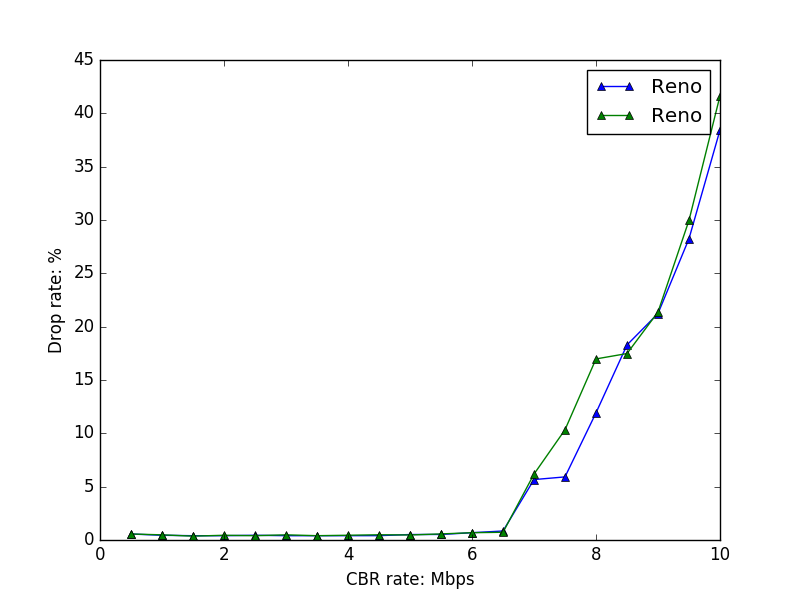
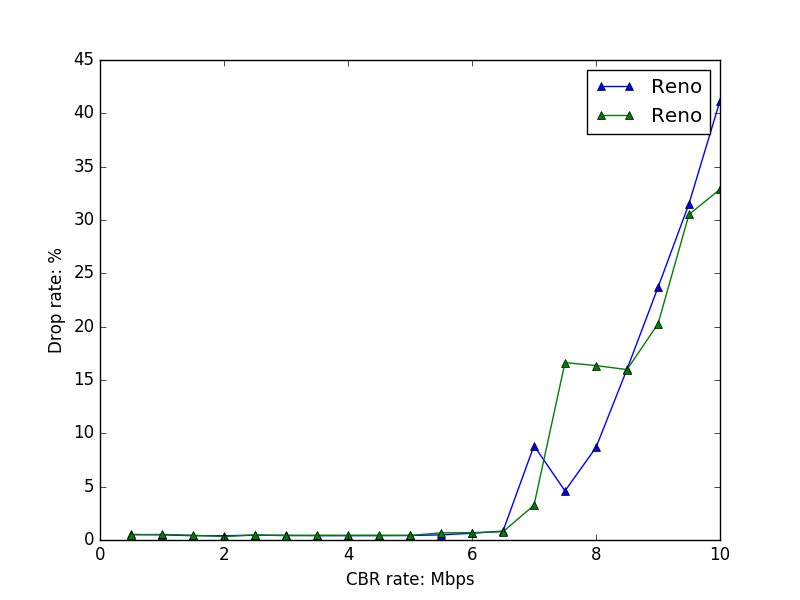
use latest sent packet and increase queue size

Changed region(s): [[0.4688, 0.18, 0.9062, 0.9], [0.1562, 0.87, 0.4062, 0.9]]

diff --git a/p3/exp1/run_exp1.py b/p3/exp1/run_exp1.py
@@ -3,12 +3,15 @@ mpl.use('Agg')
 from subprocess import call
 import matplotlib.pyplot as plt
 import os
+import numpy
 
-TEST = True
+DEV = True
+# TEST = False
+TEST = False 
 
 TCPType = {'Tahoe':'Agent/TCP', 'Reno':'Agent/TCP/Reno', 'Newreno':'Agent/TCP/Newreno', 'Vegas':'Agent/TCP/Vegas'}
 
-def statistic(fname, duration):
+def statistic(fname, duration, packet_size):
     # Open and read the trace file
     with open(fname) as f:
         lines = f.readlines()
@@ -17,8 +20,6 @@ def statistic(fname, duration):
     recv = 0
     total_rtt = 0
     # For each line, split into serveral fields.
-    # If the packet is sent by node 0, then send++, and record the sendtime
-    # If the packet is received by node 3, the recv++, and calculate the triptime, sum the packet size
     for l in lines:
         fields = l.split()
         action = fields[0]
@@ -29,19 +30,18 @@ def statistic(fname, duration):
         seq = fields[10]
 
         if action == '+' and source == '0':
-            if seq not in window:
-                window[seq] = time
+            window[seq] = time
             send += 1
         elif action == 'r' and dest == '0' and packetType == 'ack' and (seq in window):
             recv += 1
             total_rtt += time - window[seq]
             window.pop(seq)
-    throughput = recv * 1040 * 8.0 / duration / 1024
+    throughput = recv * packet_size * 8.0 / duration / 1024
     drop = (send-recv)*1.0/send*100
     latency = total_rtt*1.0/recv
-    print 'Throughput: ' + str(throughput) + ' kbps'
-    print 'Drop rate: ' + str(drop)
-    print 'latency: ' + str(latency) + 's'
+    # print 'Throughput: ' + str(throughput) + ' kbps'
+    # print 'Drop rate: ' + str(drop)
+    # print 'latency: ' + str(latency) + 's'
     return throughput, drop, latency
 
 def runExp1(cbr_start, cbr_end, step):
@@ -56,13 +56,13 @@ def runExp1(cbr_start, cbr_end, step):
             print typeName + ': ' + str(i*step) + 'mb'
             fname = 'exp1_{0}_{1}.tr'.format(typeName, str(i*step))
             # Run 5 times, vary the start time, and get the average result
-            if not TEST:
+            if not DEV:
                 call(["/course/cs4700f12/ns-allinone-2.35/bin/ns", "experiment1.tcl", TCPType[typeName], str(i*step), fname,
-                    str(2.0), str(10.0)])
+                    str(2.0), str(10.0), str(1000)])
             else:
                 call(["ns", "experiment1.tcl", TCPType[typeName], str(i*step), fname,
-                    str(2.0), str(10.0)])
-            t, d, l = statistic(fname, 8.0)
+                    str(2.0), str(10.0), str(1000)])
+            t, d, l = statistic(fname, 8.0, 1000)
             throughput.append(t)
             drop.append(d)
             latency.append(l)
@@ -71,12 +71,54 @@ def runExp1(cbr_start, cbr_end, step):
         stat['lat'][typeName] = latency
     return stat
 
+def gen_stats(cbr_start, cbr_end, step):
+    stat = {'thpt':{}, 'drop':{}, 'lat':{}}
+    # Do experiment on each TCP variant
+    for typeName in TCPType:
+        throughput = []
+        drop = []
+        latency = []
+        # Change the cbr rate from cbr_start*step to cbr_end*step
+        for i in range(cbr_start, cbr_end):
+            t = []
+            d = []
+            l = []
+            for time in [2.0, 2.2, 2.4, 2.5]:
+                for ps in [1000]:
+                    print typeName + ': ' + str(i*step) + 'mb'
+                    fname = 'exp1_{0}_{1}_{2}_{3}.tr'.format(typeName, str(i*step), time, ps)
+                    if not DEV:
+                        call(["/course/cs4700f12/ns-allinone-2.35/bin/ns", "experiment1.tcl", TCPType[typeName], str(i*step), fname,
+                            str(time), str(10.0), str(ps)])
+                    else:
+                        call(["ns", "experiment1.tcl", TCPType[typeName], str(i*step), fname,
+                            str(time), str(10.0), str(ps)])
+                    tt, dd, ll = statistic(fname, 10.0 - time, ps)
+                    t.append(tt)
+                    d.append(dd)
+                    l.append(ll)
+            throughput.append(numpy.mean(t))
+            throughput.append(numpy.std(t))
+            drop.append(numpy.mean(d))
+            drop.append(numpy.std(d))
+            latency.append(numpy.mean(l))
+            latency.append(numpy.std(l))
+            stat['thpt'][typeName] = throughput
+            stat['drop'][typeName] = drop
+            stat['lat'][typeName] = latency
+    return stat
+
 def main():
     cbr_start = 1
     cbr_end = 21
     step = 0.5
     color = {'Tahoe':'-o', 'Reno':'-^', 'Newreno':'-s', 'Vegas':'-*'}
-    stat = runExp1(cbr_start, cbr_end, step)
+    if not TEST:
+        stat = runExp1(cbr_start, cbr_end, step)
+    else:
+        stat = gen_stats(6, 9, 1)
+        print stat
+        return
     nfig = 0
     for k in stat:
         plt.figure(nfig)
@@ -94,5 +136,6 @@ def main():
         # plt.show()
         plt.savefig('exp1_'+k)
 
-main()
+if __name__ == '__main__':
+    main()
 

diff --git a/p3/exp3/run_exp3.py b/p3/exp3/run_exp3.py
@@ -31,8 +31,7 @@ def statistic(fname, duration):
 
         if action == '+' and source == '0':
             timeSlot = int(float(time))
-            if seq not in window:
-                window[seq] = time
+            window[seq] = time
             send[timeSlot] += 1
         elif action == 'r' and dest == '0' and packetType == 'ack' and seq in window:
             timeSlot = int(float(fields[1]))

diff --git a/p3/exp2/run_exp2.py b/p3/exp2/run_exp2.py
@@ -24,8 +24,7 @@ def statistic(fname, duration):
         packetType = fields[4]
         seq = fields[10]
         if action == '+' and source == '0':
-            if seq not in window1:
-                window1[seq] = time
+            window1[seq] = time
             send1 += 1
         elif action == '+' and source == '4':
             if seq not in window2:
